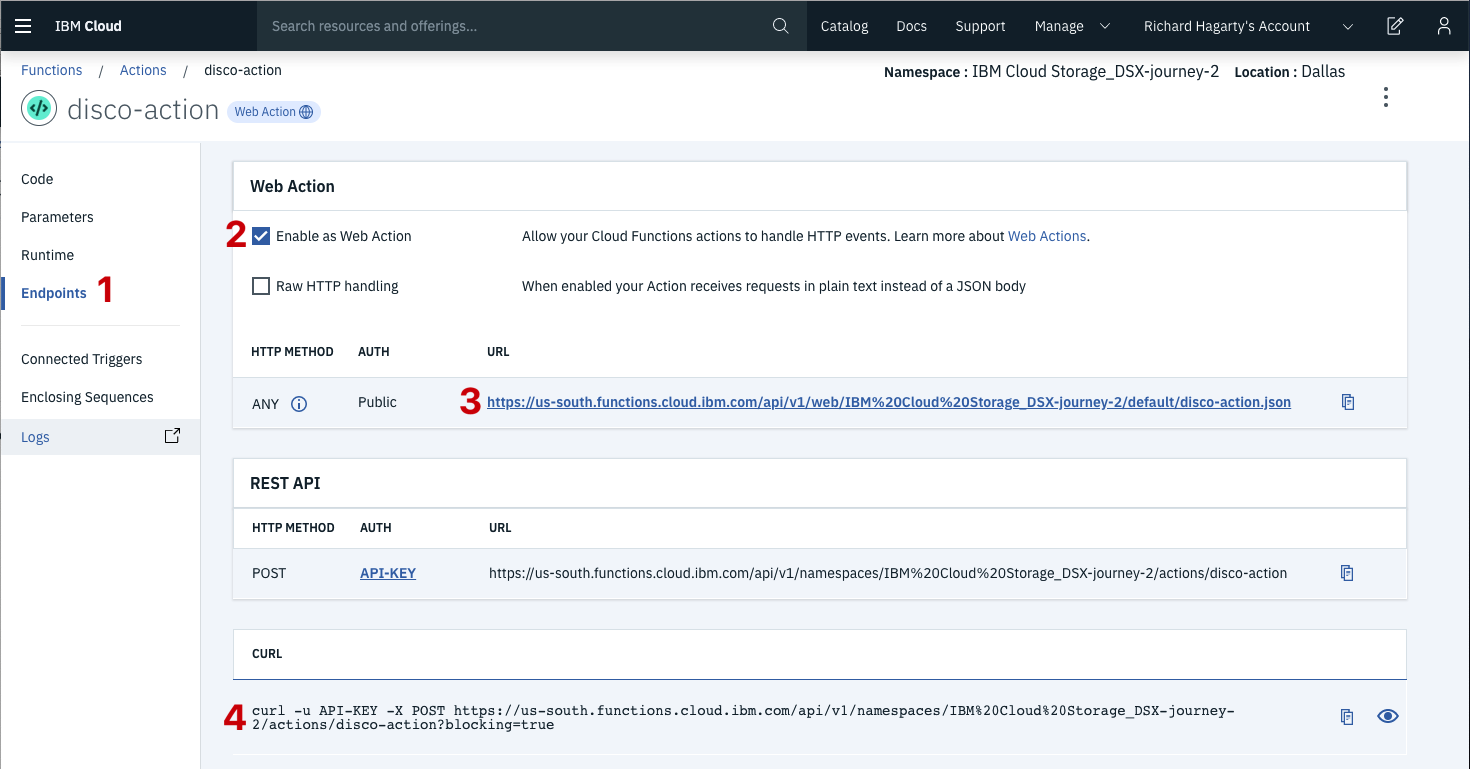
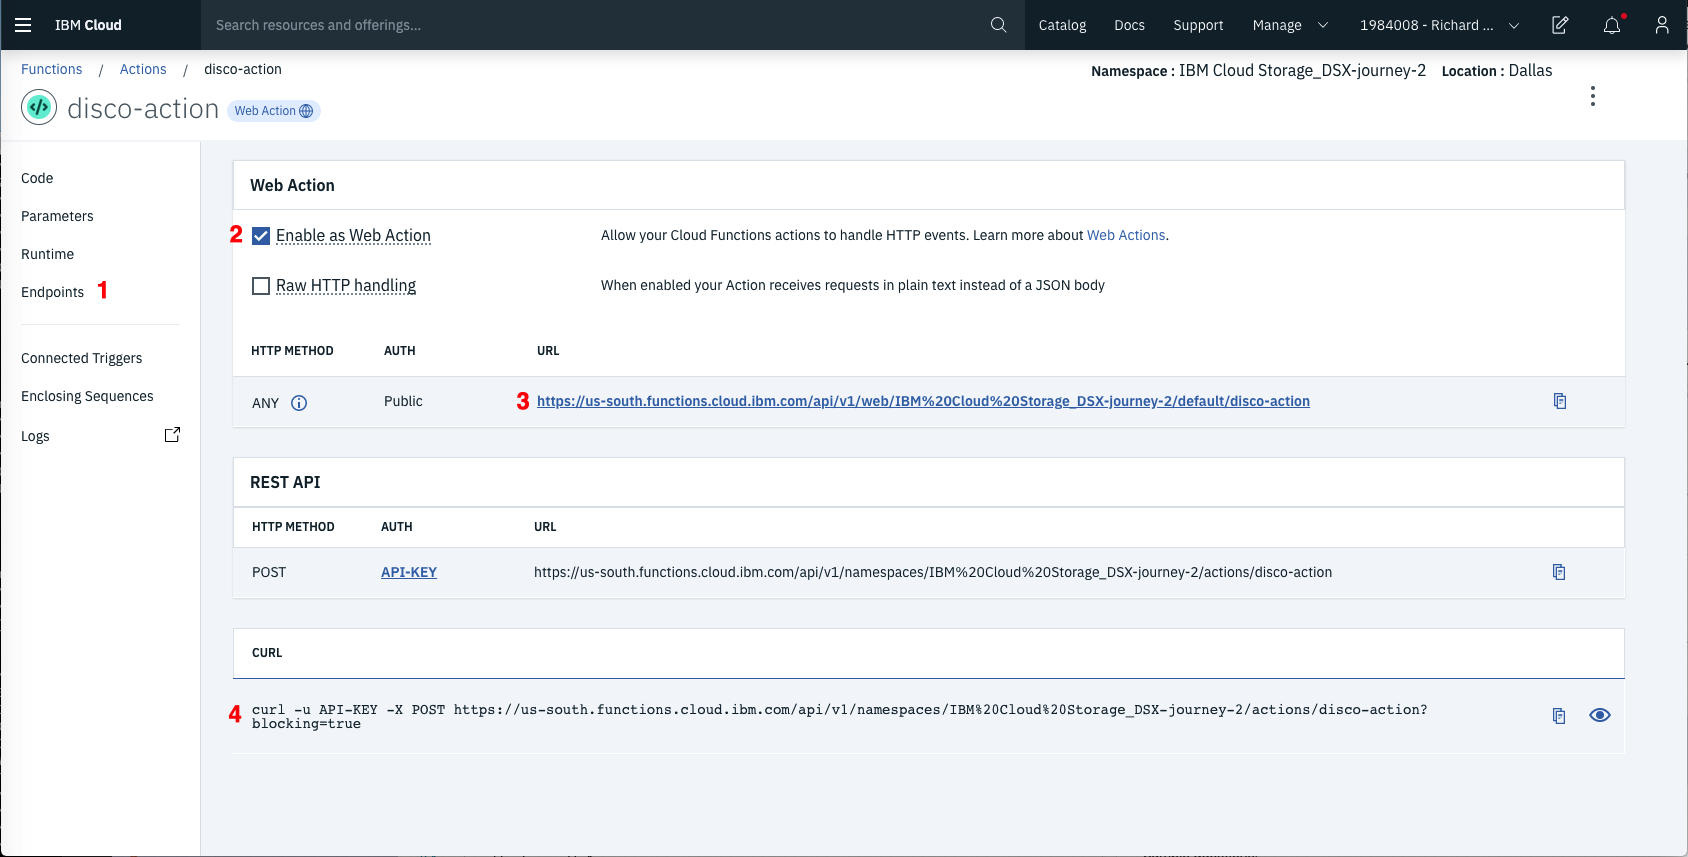
update README (#24)
* update README

diff --git a/server/watson-assistant-service.js b/server/watson-assistant-service.js
@@ -23,7 +23,8 @@ assistant = new AssistantV1({
   version: version
 });
 
-assistant.workspaceId = process.env.ASSISTANT_WORKSPACE_ID;
+// SDK uses workspaceID, but Assistant tooling refers to the this value as the SKILL ID.
+assistant.workspaceId = process.env.ASSISTANT_SKILL_ID;
 
 assistant.listWorkspaces = Promise.promisify(assistant.listWorkspaces);
 assistant.message = Promise.promisify(assistant.message);

diff --git a/README.md b/README.md
@@ -201,7 +201,7 @@ Next, go to the `Endpoints` panel [1]:
 
 ![action-endpoint](doc/source/images/action-endpoint.png)
 
-Click the checkbox for `Enable as Web Action` [2]. This will generate a public endpoint URL [3] that should end in `.json`.
+Click the checkbox for `Enable as Web Action` [2]. This will generate a public endpoint URL [3].
 
 Take note of the REST API endpoint value [3], as this will be needed by Watson Assistant in a future step.
 
@@ -305,8 +305,8 @@ Update the `.env` file with the credentials from your Assistant service.
 # Copy this file to .env and replace the credentials with
 # your own before starting the app.
 
-# Watson Discovery
-ASSISTANT_WORKSPACE_ID=<add_assistant_workspace_id>
+# Watson Assistant
+ASSISTANT_SKILL_ID=<add_assistant_skill_id>
 ASSISTANT_IAM_APIKEY=<add_assistant_iam_apikey>
 
 # Run locally on a non-default port (default is 3000)
@@ -315,13 +315,11 @@ ASSISTANT_IAM_APIKEY=<add_assistant_iam_apikey>
 
 Credentials can be found by clicking the Service Credentials tab, then the View Credentials option from the panel of your created Watson service.
 
-An additional `WORKSPACE_ID` value is required to access the Watson Assistant service. To get this value, select the `Manage` tab, then the `Launch tool` button from the panel of your Watson Assistance service. From the service instance panel, select the `Skills` tab to display the skills that exist for your service. For this tutorial, we will be using the `Custom Skill Sample Skill` that comes with the service:
+An additional `ASSISTANT_SKILL_ID` value is required to access the Watson Assistant service. To get this value, select the `Manage` tab, then the `Launch tool` button from the panel of your Watson Assistance service. From the service instance panel, select your Assistant to display the assigned skills. For this code pattern, we used the dialog skill named `Custom Skill Sample Skill` that comes with the service:
 
-<p align="center">
-  <img width="300" src="doc/source/images/sample-skill.png">
-</p>
+![sample-skill](doc/source/images/sample-skill.png)
 
-Click the option button (highlighted in the image above) to view all of your skill details and service credentials:
+Click the option button (highlighted in the image above) to view the skill `API Details`. Here you will find the `Skill ID` value.
 
 ![sample-skill-creds](doc/source/images/sample-skill-creds.png)
 
